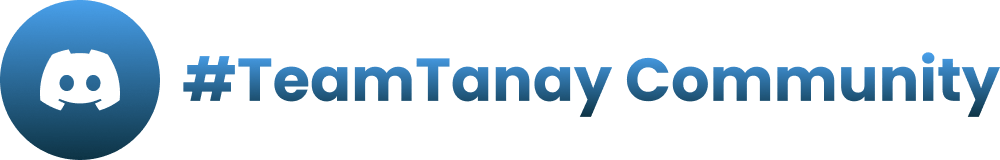
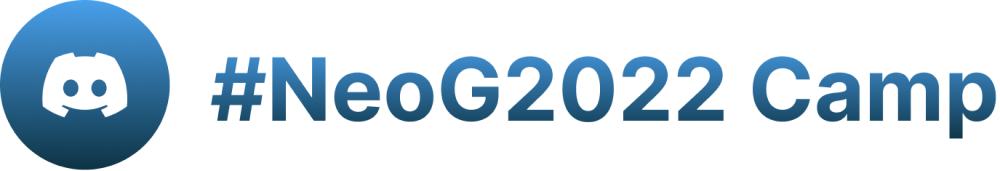
fix: mail template images

diff --git a/utils/mailHandler.js b/utils/mailHandler.js
@@ -29,7 +29,7 @@ async function sendMail(email, verificationCode) {
                 {
                     from: `"${process.env.USER_NAME} NO-REPLY" <${process.env.GOOGLE_USER}>`,
                     to: email,
-                    subject: 'Verification For #teamtanay Discord Server',
+                    subject: 'Verification For #neogCamp 2022 Discord Server',
                     html,
                     attachments: [
                         {

diff --git a/assets/mail/content.html b/assets/mail/content.html
@@ -300,7 +300,7 @@
         <div class="Main">
             <div class="Box">
                 <div class="Banner">
-                    <img alt="" src="neog1.png" />
+                    <img alt="" src="neog.png" />
                 </div>
 
                 <table class="Sender">
